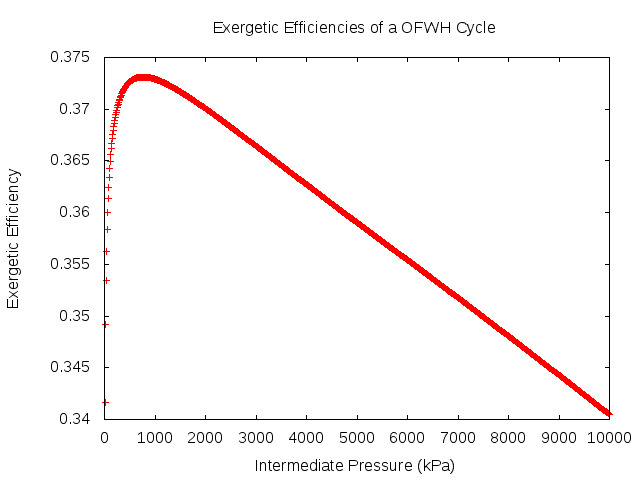
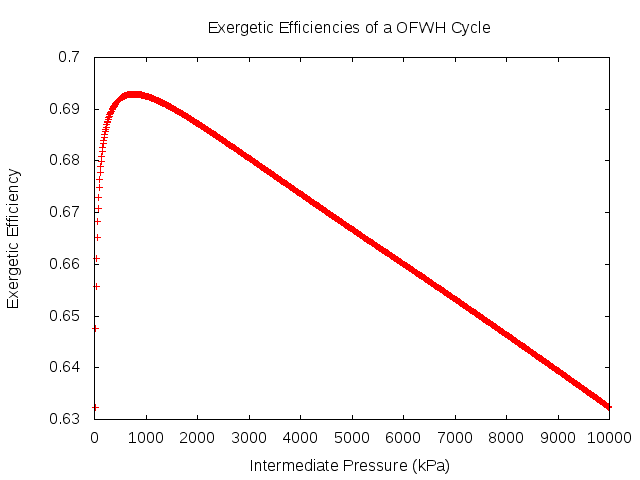
CFWH and OFWH Efficiencies

diff --git a/CFWH.py b/CFWH.py
@@ -50,8 +50,8 @@ class CFWH(object):
         self.superHeater = Reheater(self.six, self.one)
         self.eta = (sum([self.turb_one.w, self.turb_two.w, self.pump_one.w])/
                     sum([self.superHeater.q]))
-        self.E = self.eta*(1/(1-TL/TH))
-        self.cfwh = CFeedWater([self.two, self.five], [y, (1-y)], [self.seven, self.six],
+        self.E = self.eta*(1/(1-float(TL)/float(TH)))
+        self.cfwh = CFeedWater([self.two, self.five], [y, 1], [self.seven, self.six],
                     [y, (1-y)], t0, p0)
 
 def cfwh(p_2):
@@ -79,7 +79,7 @@ if __name__ == '__main__':
     pHigh = 100*10**5
     results = []
     int_p = []
-    for x in range(pLow+1000, pHigh-1000, 10000):
+    for x in range(pLow+1, pHigh-1, 10000):
         int_p.append(x/1000)
         results.append(cfwh(x))
 

diff --git a/OFWH.py b/OFWH.py
@@ -43,7 +43,7 @@ class OFWH(object):
         self.superHeater = Reheater(self.seven, self.one)
         self.eta = (sum([self.turb_one.w, self.turb_two.w, self.pump_one.w, self.pump_two.w])/
                     sum([self.superHeater.q]))
-        self.E = self.eta*(1/(1-TL/TH))
+        self.E = self.eta*(1/(1-float(TL)/float(TH)))
         self.ofwh = OFeedWater([self.two, self.five], [y, (1-y)], self.six, [1], t0, p0)
 
 
@@ -64,7 +64,7 @@ if __name__ == '__main__':
     pHigh = 100*10**5
     results = []
     int_p = []
-    for x in range(pLow+1000, pHigh-1000, 10000):
+    for x in range(pLow+1, pHigh-1, 10000):
         int_p.append(x/1000)
         results.append(ofwh(x))
 

diff --git a/model/OFeedWater.py b/model/OFeedWater.py
@@ -8,7 +8,10 @@ class OFeedWater(object):
         self.exergyDestroyed = self.entropyProduced*t0
         self.yf_in = sum([inlets[i].exergy_f(t0, p0)*m_in[i] for i in range(len(m_in))])
         self.yf_out = outlet.exergy_f(t0, p0)*m_out[0]
-        
-        self.ef = (m_in[1]*(self.yf_out - inlets[1].exergy_f(t0, p0))/
-                    m_in[0]*(inlets[0].exergy_f(t0, p0)-self.yf_out))
+        yfo = outlet.exergy_f(t0, p0)
+        yfh = inlets[0].exergy_f(t0, p0)
+        yfc = inlets[1].exergy_f(t0, p0)
+        c = m_in[0]*(yfo - yfc)
+        h = m_in[1]*(yfh-yfo)
+        self.ef = c/h
         self.w = 0

diff --git a/model/CFeedWater.py b/model/CFeedWater.py
@@ -9,5 +9,13 @@ class CFeedWater(object):
         self.yf_in = sum(yf_in)
         yf_out = [outlets[i].exergy_f(t0, p0)*m_out[i] for i in range(len(m_out))]
         self.yf_out = sum(yf_out)
-        self.ef = (yf_out[1]-yf_in[1])/(yf_in[0]-yf_out[0])
+        yfh_in = inlets[0].exergy_f(t0, p0)
+        yfh_out = outlets[0].exergy_f(t0, p0)
+        yfc_in = inlets[1].exergy_f(t0, p0)
+        yfc_out = outlets[1].exergy_f(t0, p0)
+        m_h = m_in[0]
+        m_c = m_in[1]
+        a = m_c*(yfc_out-yfc_in)
+        b = m_h*(yfh_in-yfh_out)
+        self.ef = a/b
         self.w = 0
